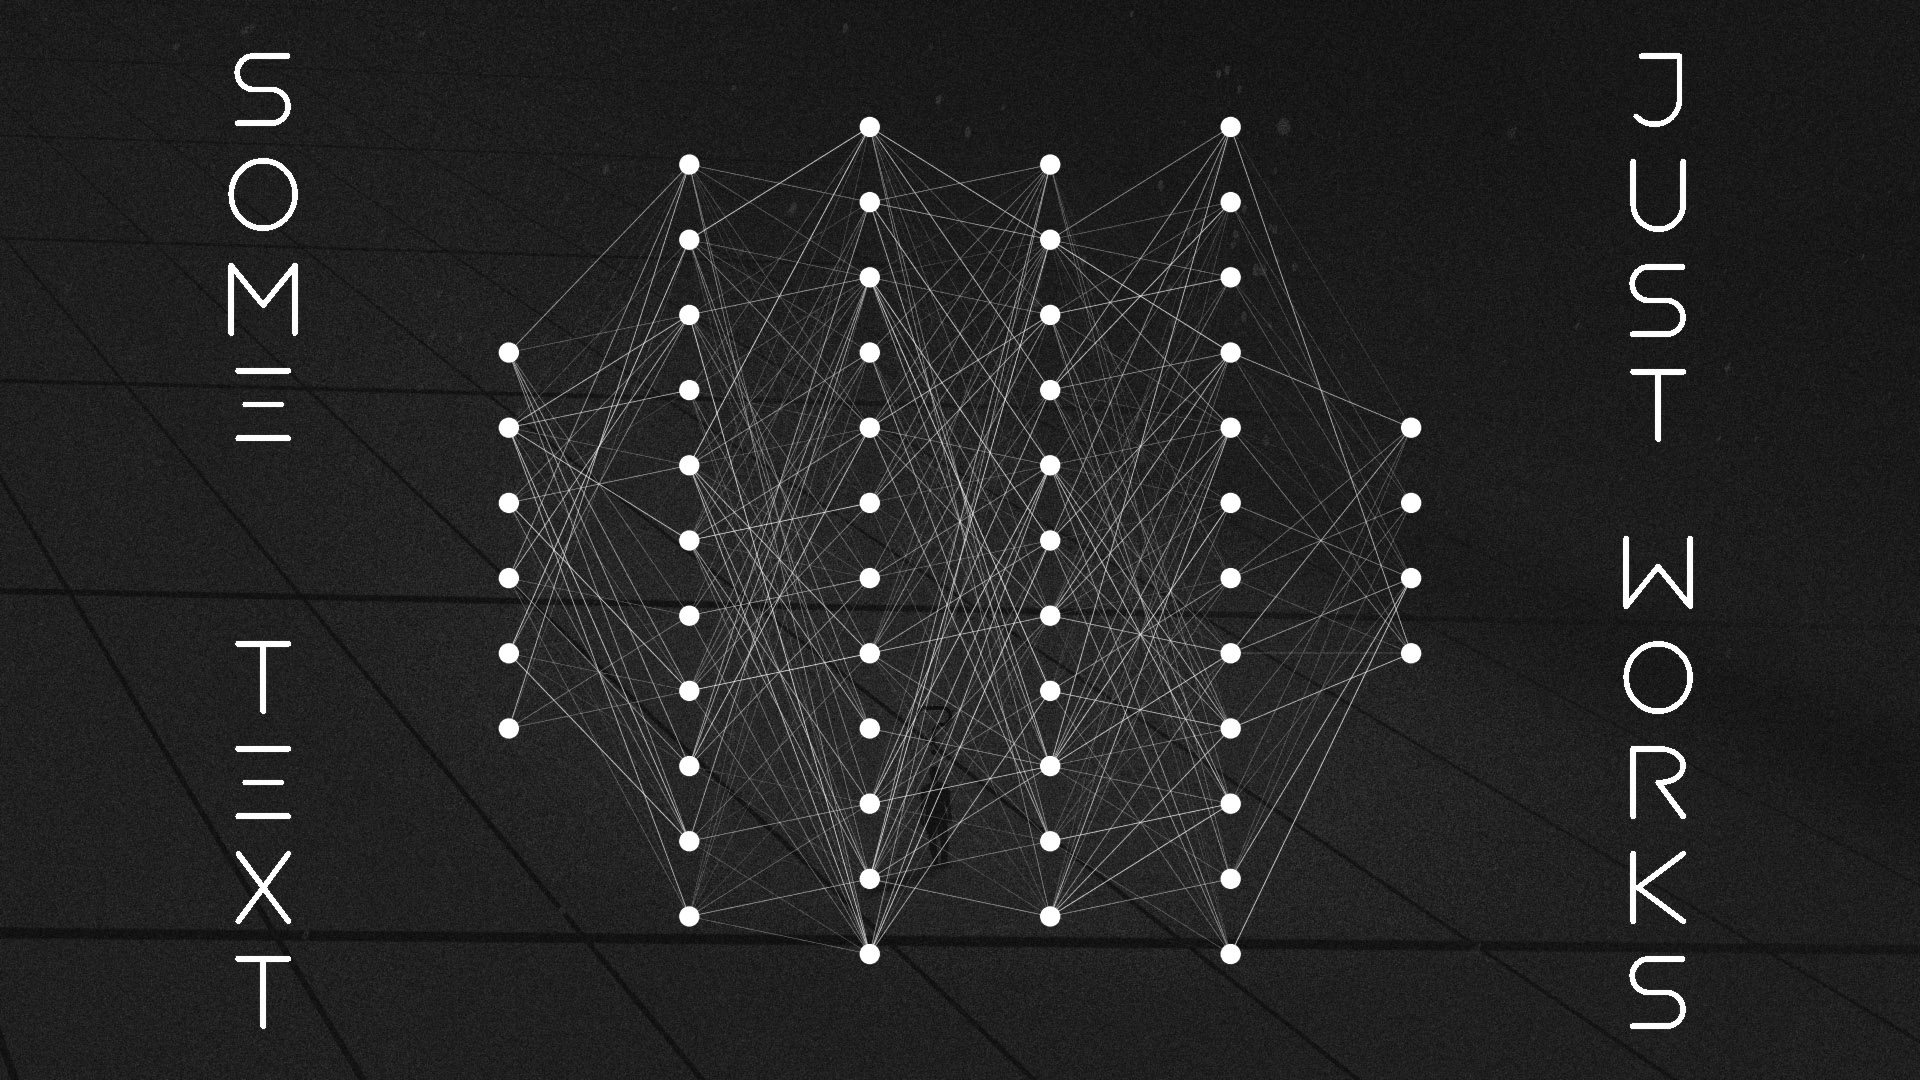
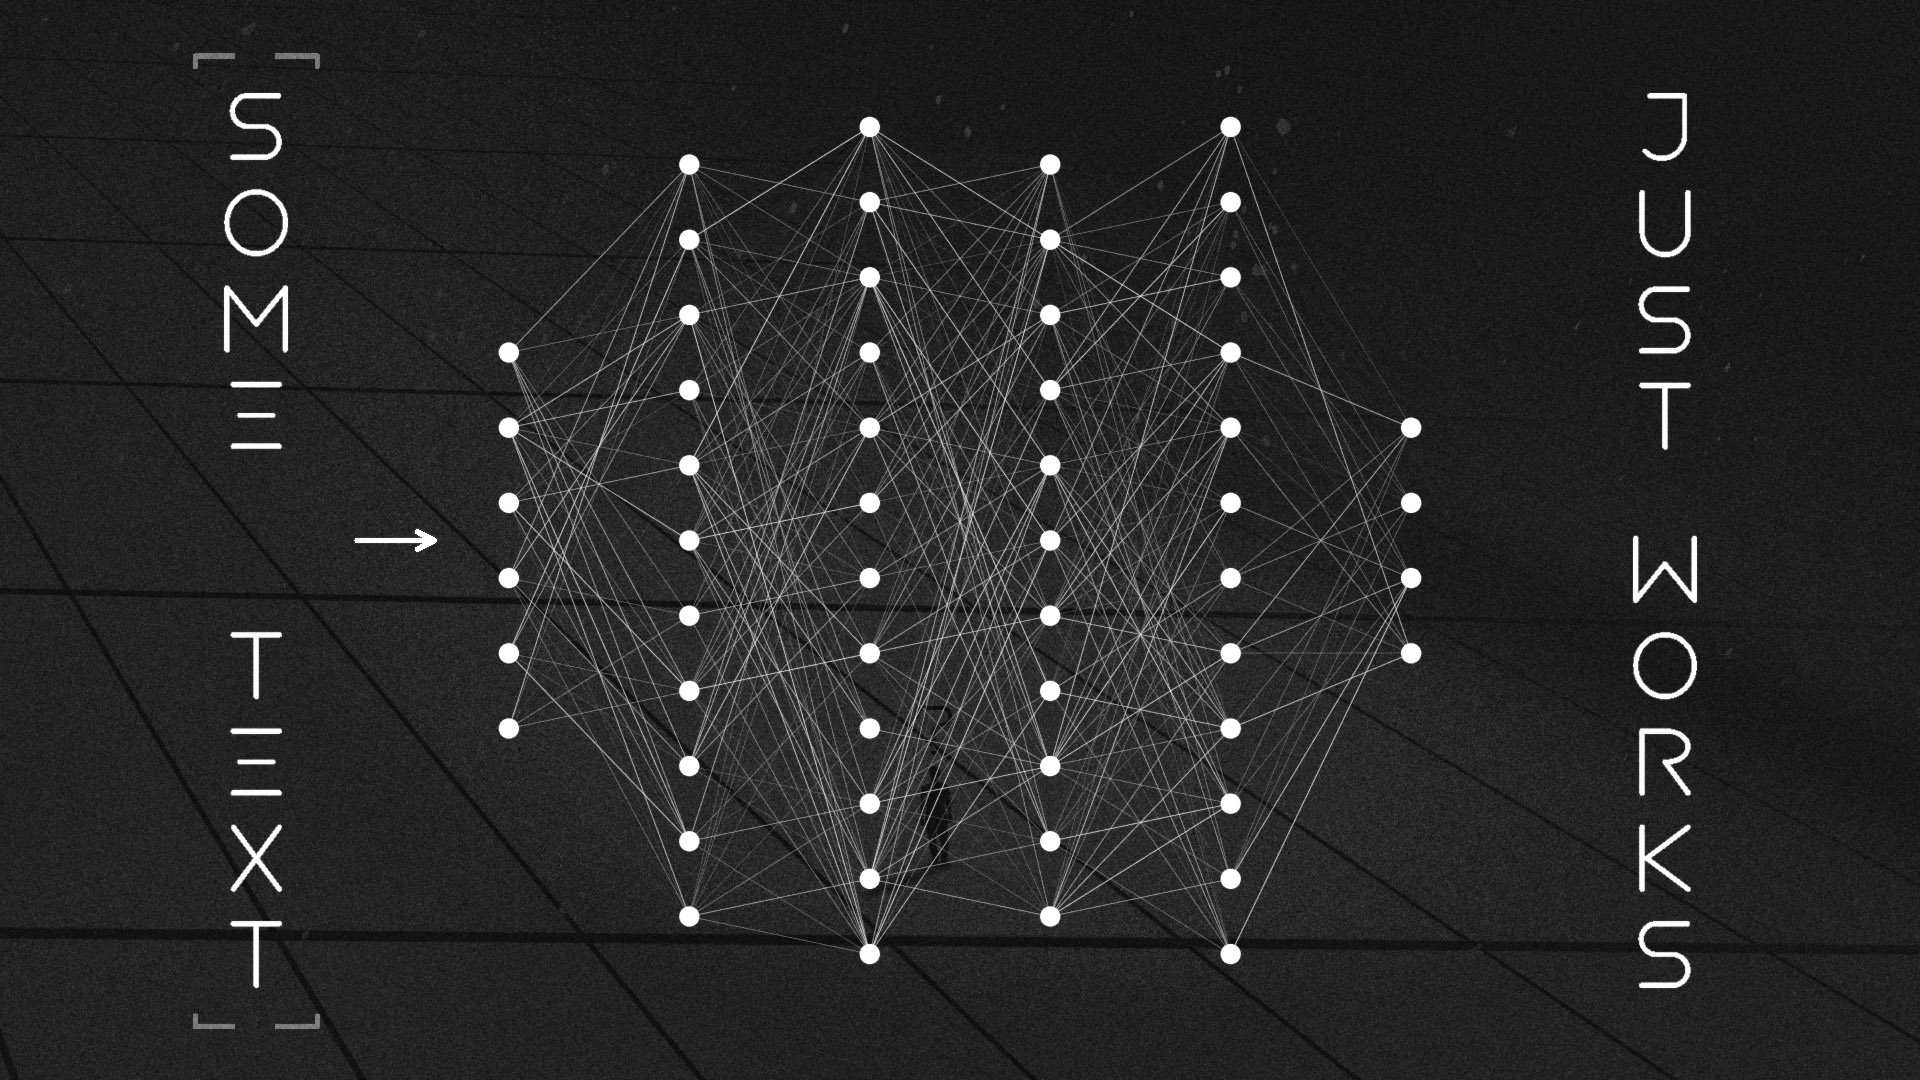
update

diff --git a/notebook_pages/things-to-do-with-llm.html b/notebook_pages/things-to-do-with-llm.html
@@ -184,7 +184,7 @@
 <p>This one is making a lot noise, but personally I think making simple versions of commercial software that can run on any hardware is convenient. Even if they might contain jank, it's at least <em>my own jank</em>. Every commercial software out there is made to synchronise to a server (spyware) and require you to have subscription for certain features or even just opening up your files (let's be real here, it's ransomware at this point). A simple app that just changes a files content without enforced Internet connection, ads, and payments is how computers are supposed to work. LLM's can finally make computers usable again.</p>
 <p>Here are some of the apps I have made:</p>
 <ul>
-<li>Simple markdown, latex or just <code>.docx</code> editor, so you don't have to rely on expensive, ugly and bloat software to edit a spreadsheet or a text file.</li>
+<li>Simple markdown, latex or just <code>.docx</code> editor, so you don't have to rely on expensive, ugly and bloat software just to edit a spreadsheet or a text/document file.</li>
 <li>Media converter app / script, have your favorite settings as default and just run.</li>
 <li>Screen savers / wall paper loops: If you got a logo or something for a brand, make some self container webpages with interesting visuals. See it as a sibling project to the OBS Studio streaming layout or if you have a branding project and you need some background visuals (TV billboards or background in a video and so on).</li>
 </ul>

diff --git a/input_markdown/things-to-do-with-llm.md b/input_markdown/things-to-do-with-llm.md
@@ -56,7 +56,7 @@ Making an OBS Studio layout for screen recording, having screen + camera view wi
 This one is making a lot noise, but personally I think making simple versions of commercial software that can run on any hardware is convenient. Even if they might contain jank, it's at least *my own jank*. Every commercial software out there is made to synchronise to a server (spyware) and require you to have subscription for certain features or even just opening up your files (let's be real here, it's ransomware at this point). A simple app that just changes a files content without enforced Internet connection, ads, and payments is how computers are supposed to work. LLM's can finally make computers usable again.
 
 Here are some of the apps I have made:
-- Simple markdown, latex or just `.docx` editor, so you don't have to rely on expensive, ugly and bloat software to edit a spreadsheet or a text file.
+- Simple markdown, latex or just `.docx` editor, so you don't have to rely on expensive, ugly and bloat software just to edit a spreadsheet or a text/document file.
 - Media converter app / script, have your favorite settings as default and just run.
 -  Screen savers / wall paper loops: If you got a logo or something for a brand, make some self container webpages with interesting visuals. See it as a sibling project to the OBS Studio streaming layout or if you have a branding project and you need some background visuals (TV billboards or background in a video and so on).
 
